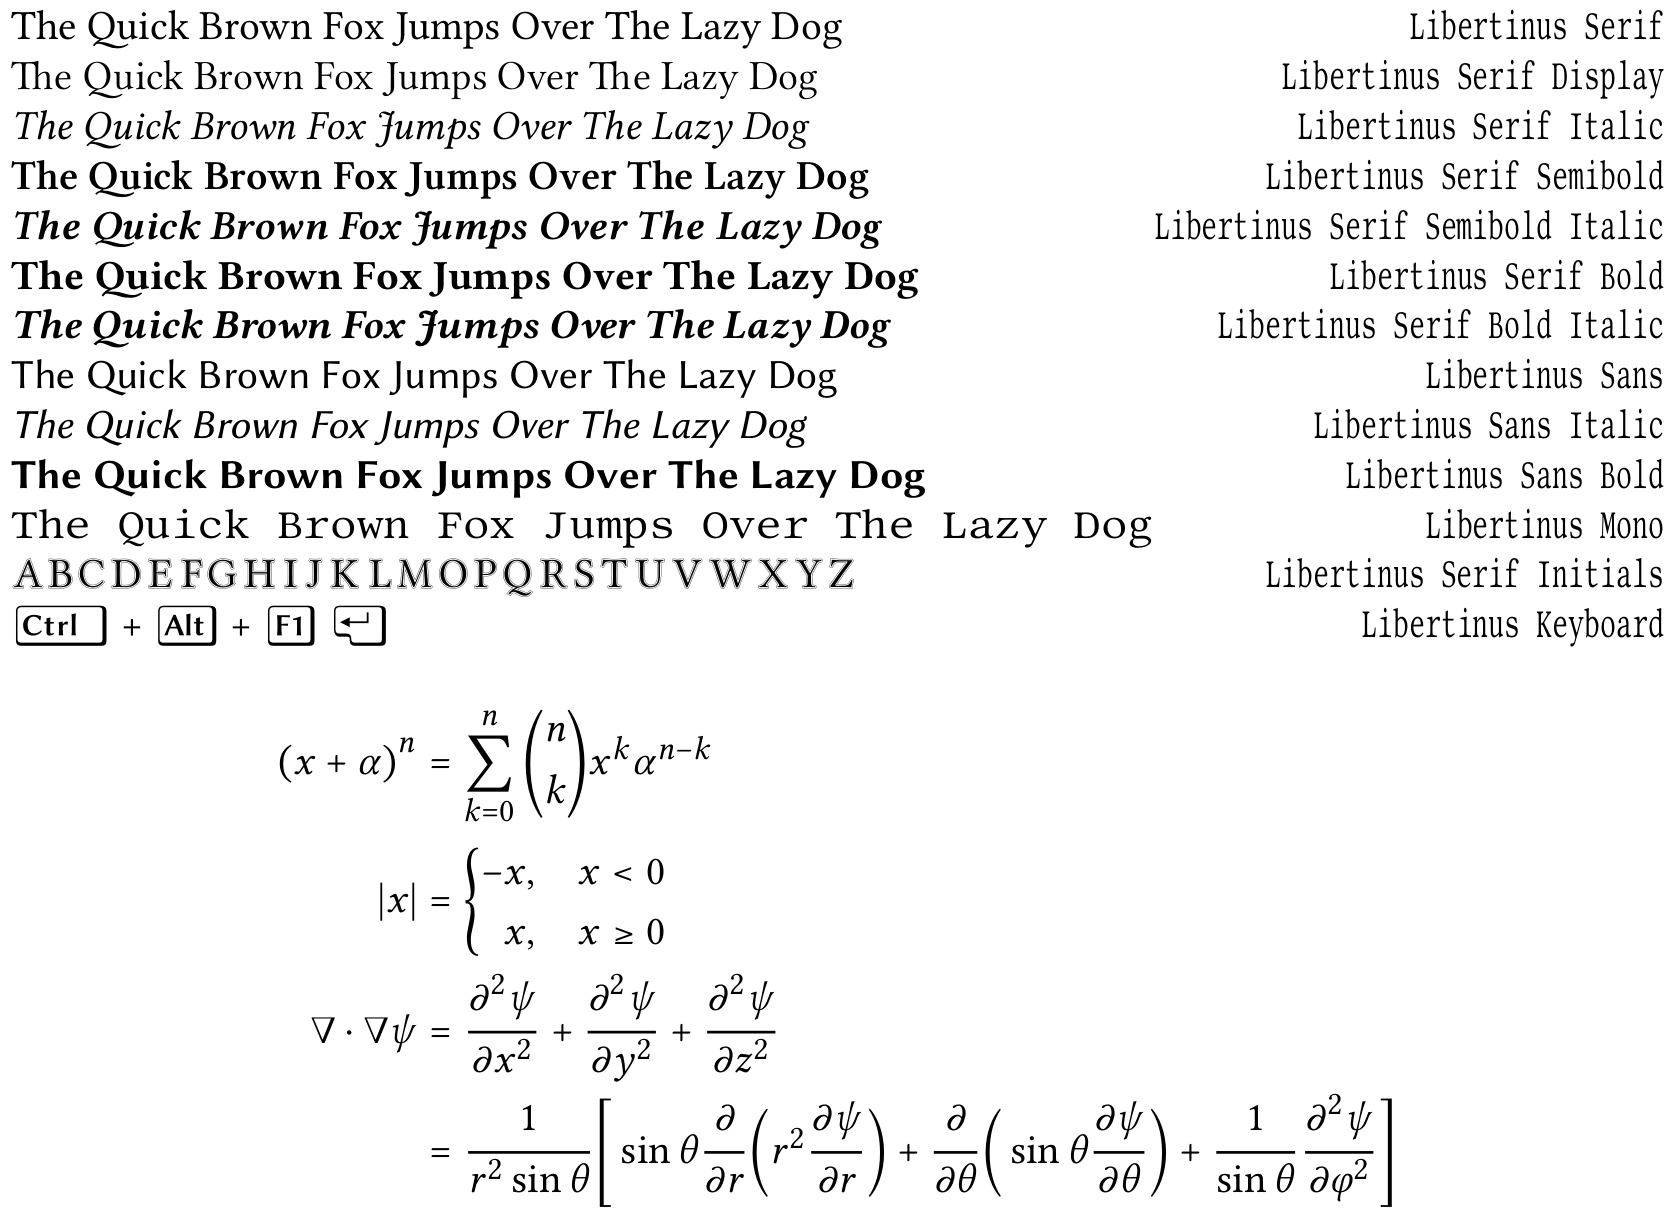
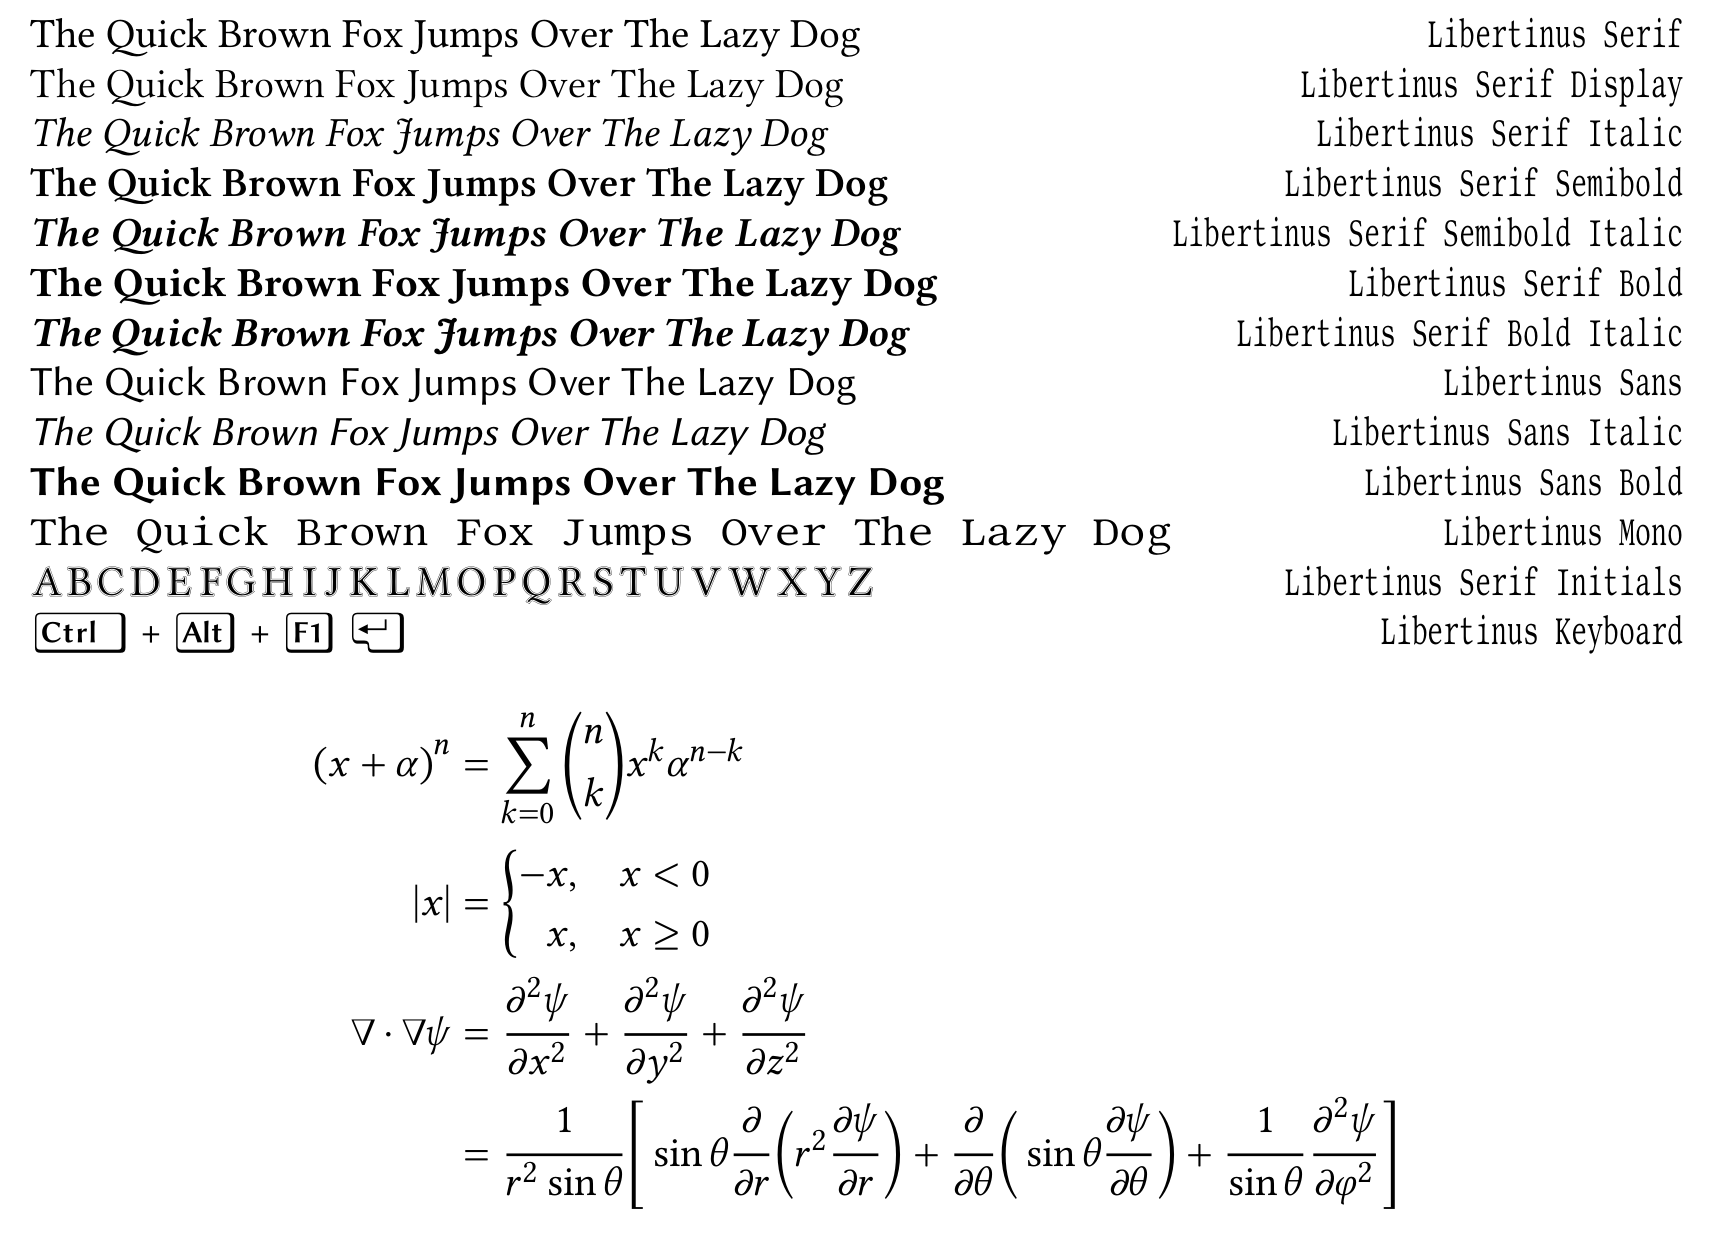
Update preview file
Add makefile rule to generate it.

diff --git a/documentation/preview.tex b/documentation/preview.tex
@@ -4,6 +4,16 @@
 \usepackage{unicode-math}
 \usepackage{graphicx}
 
+\usepackage[
+	papersize={145mm,105mm},
+	layouthoffset=0mm,
+	layoutvoffset=0mm,
+	left = 0mm,
+	right = 0mm,
+	top = 1mm,
+	bottom = 0mm,
+]{geometry}
+
 \setmainfont{Libertinus Serif}
 \setsansfont{Libertinus Sans}
 \setmonofont{Libertinus Mono}
